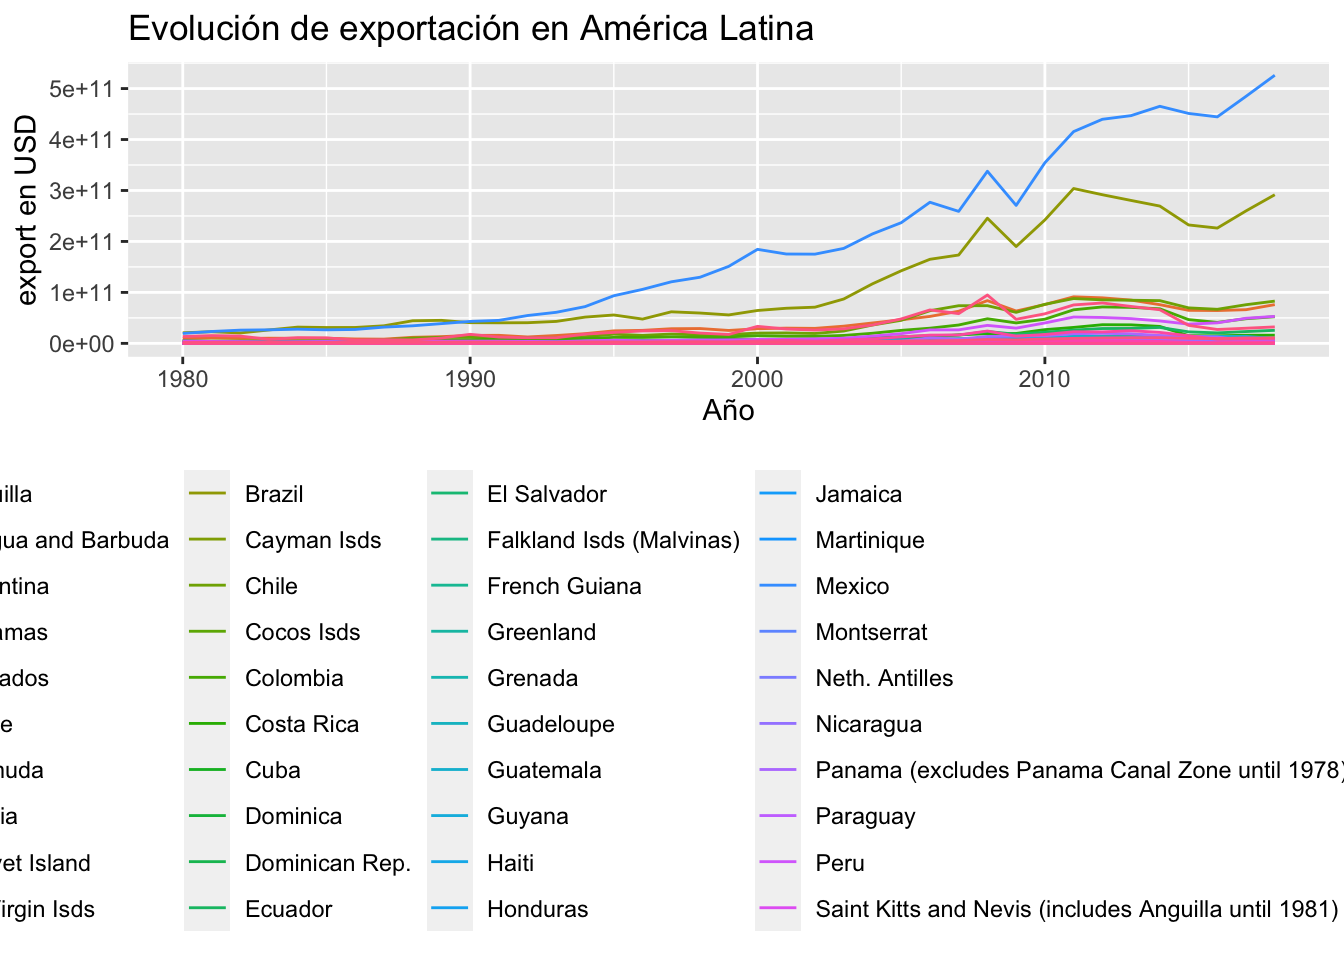
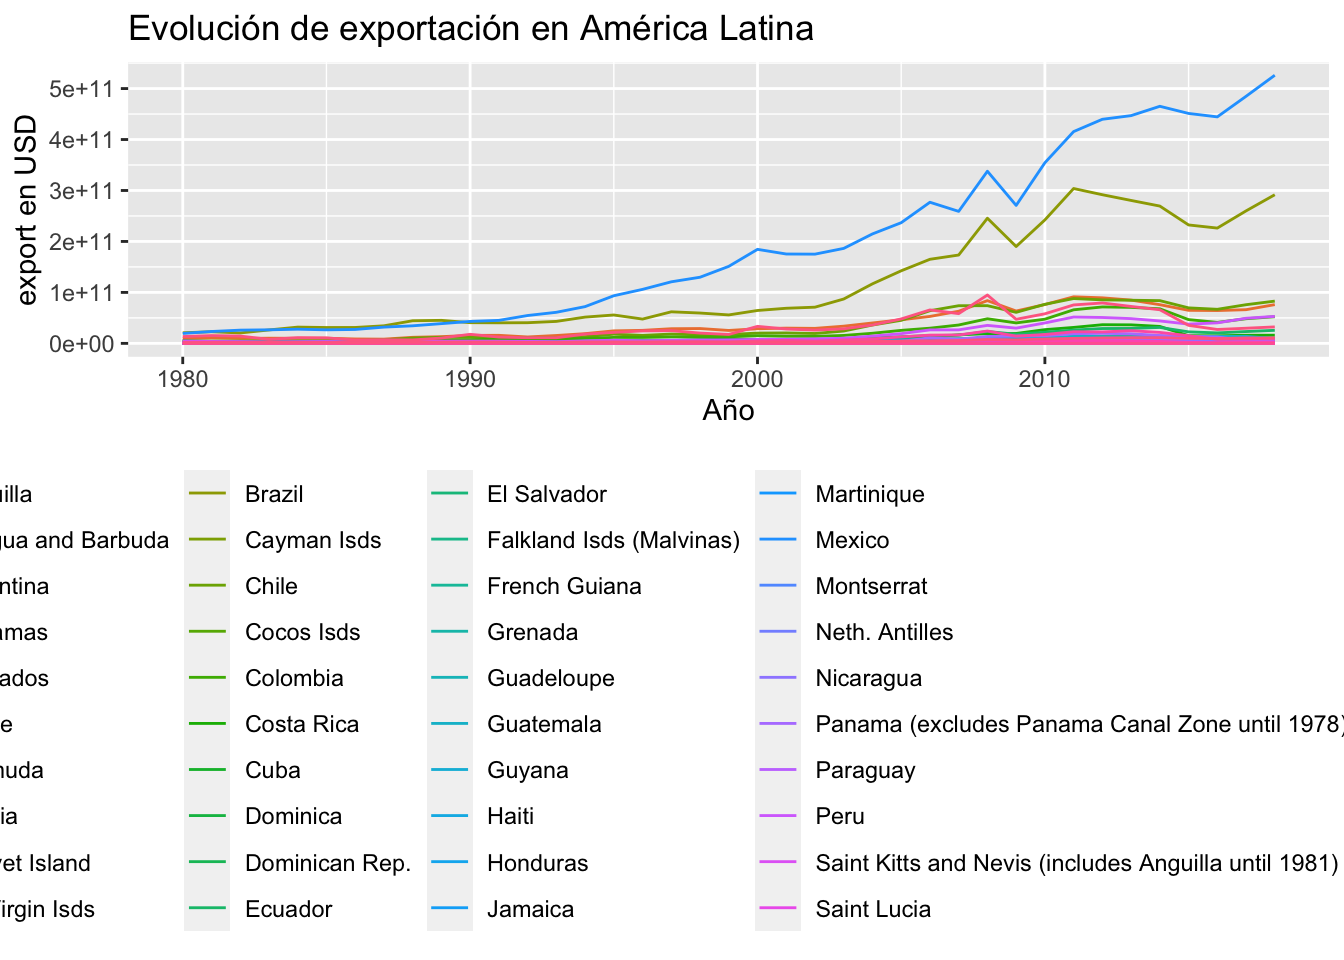
commit changes to datos historicos

diff --git a/content/post/2020-12-07-datos-historicos/index.html b/content/post/2020-12-07-datos-historicos/index.html
@@ -45,8 +45,9 @@ I want to select the variables I want for the visualization of the total export.
          country_iso, 
          country_fullname_english, 
          export_value_usd) %&gt;%
-  filter(country_iso != &quot;usa&quot;,
-         country_iso != &quot;can&quot;,
+  filter(country_iso != &quot;usa&quot;, # Excluding the U.S.
+         country_iso != &quot;can&quot;, # Excluding Canada
+         country_iso != &quot;grl&quot;, # Excluding Grenland
          country_iso != &quot;vir&quot;, # Excluding one observation of US Virgin Islands
          country_iso != &quot;umi&quot;) # Excluding &quot;United States Minor Outlying Islands&quot;</code></pre>
 <p>Before, I graph the results, I want to merge all the Caribbean countries into one category for the Caribbean countries:</p>
